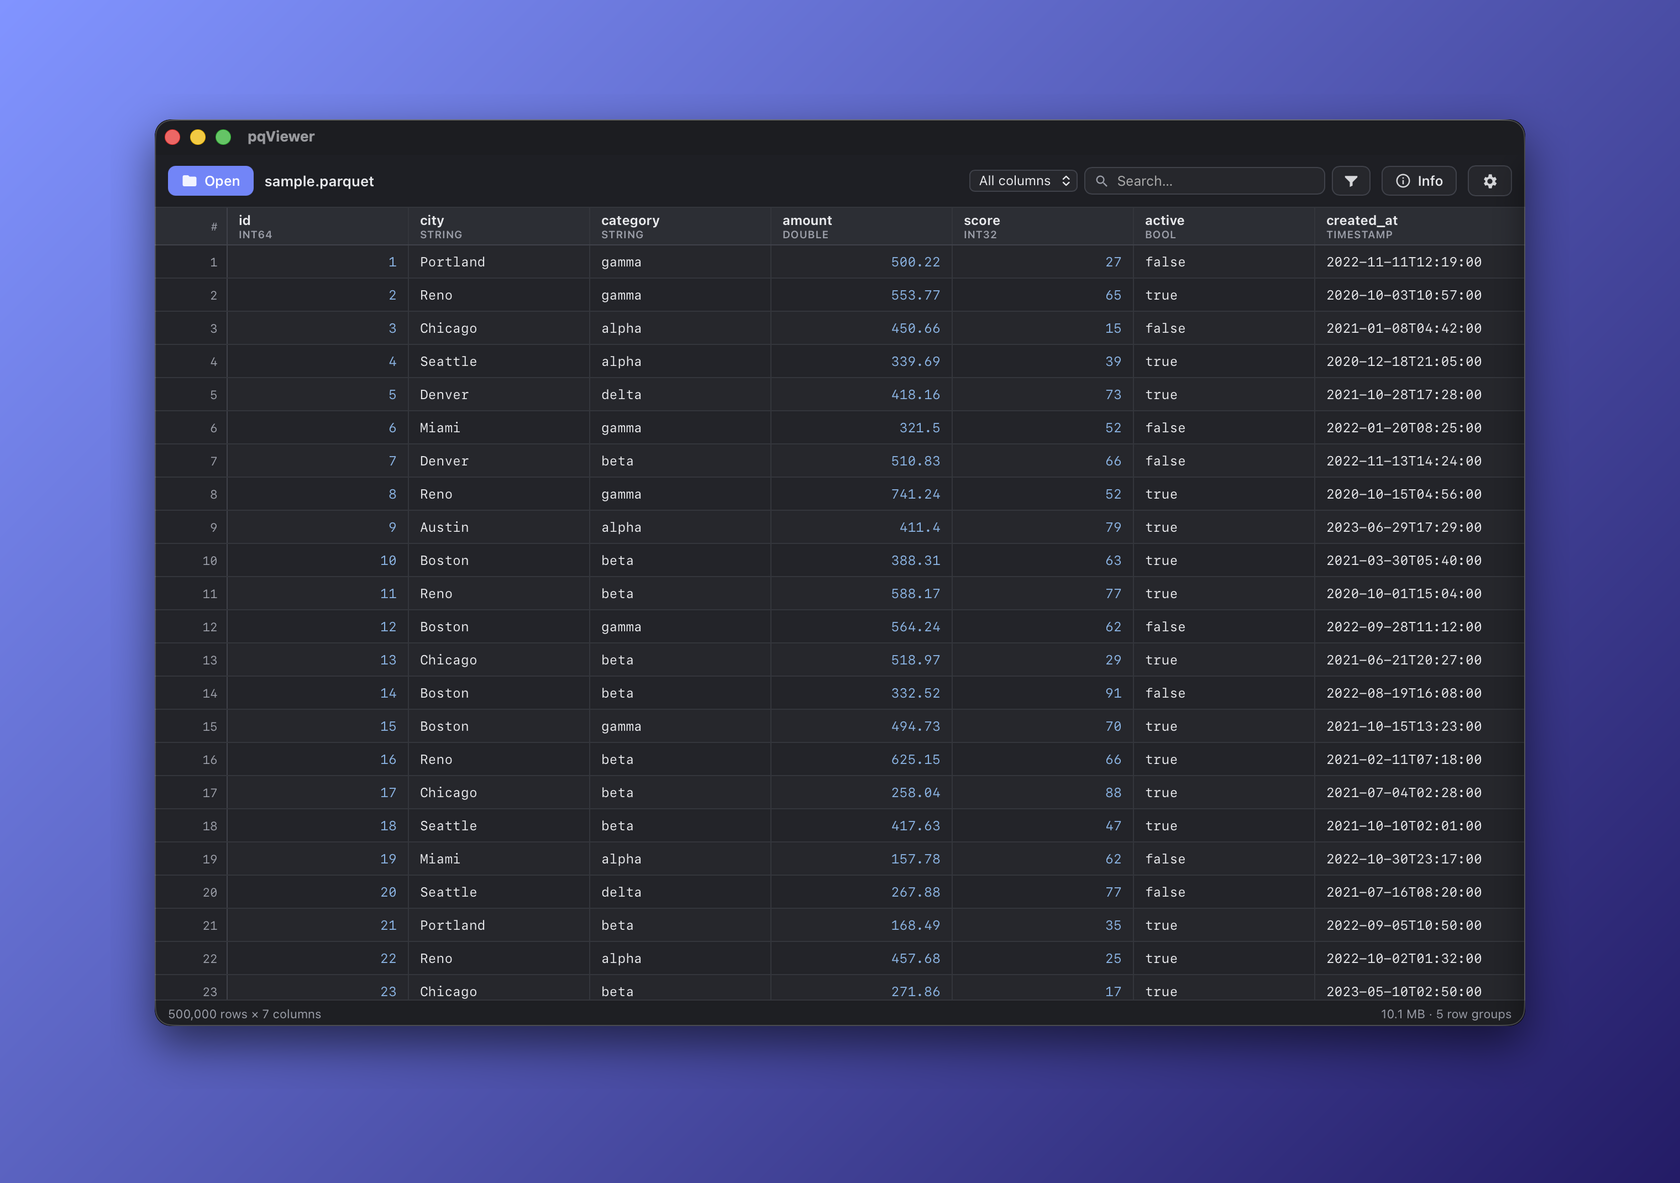
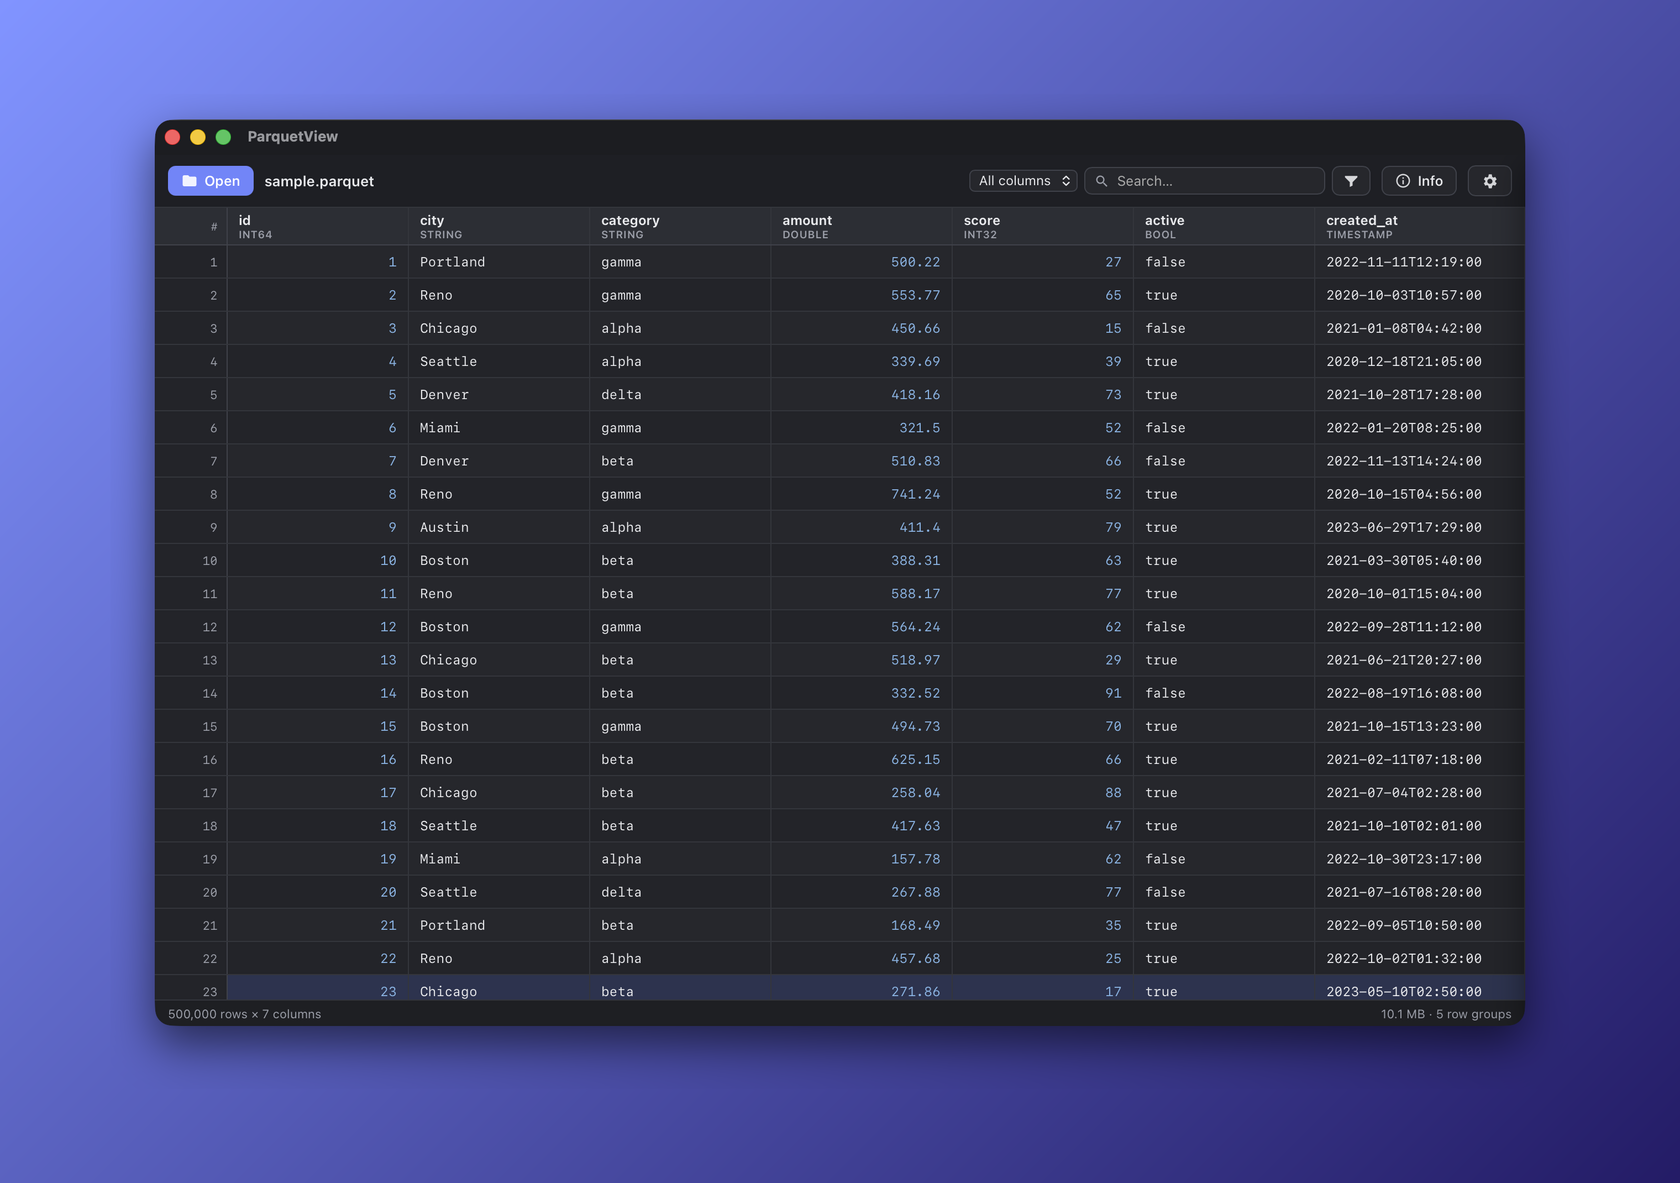
Rebrand pqViewer → ParquetView
Renames the app, crate, bundle identifier (com.fcatus.parquetview), window
title, DMG, README/landing page, and all URLs. 'ParquetView' keeps the
'parquet' keyword for discoverability while staying distinct from the
existing ParquetViewer project. Mockup regenerated with the new title bar.

Changed region(s): [[0.1238, 0.8216, 0.9286, 0.8521], [0.1548, 0.0913, 0.2167, 0.1217]]

diff --git a/docs/index.html b/docs/index.html
@@ -3,11 +3,11 @@
   <head>
     <meta charset="UTF-8" />
     <meta name="viewport" content="width=device-width, initial-scale=1.0" />
-    <title>pqViewer — a fast, native macOS Parquet viewer</title>
+    <title>ParquetView — a fast, native macOS Parquet viewer</title>
     <meta name="description" content="A fast, native macOS viewer for Apache Parquet files. Opens multi-gigabyte files instantly." />
-    <meta property="og:title" content="pqViewer" />
+    <meta property="og:title" content="ParquetView" />
     <meta property="og:description" content="A fast, native macOS viewer for Apache Parquet files." />
-    <meta property="og:image" content="https://alyetama.github.io/pqViewer/mockup.png" />
+    <meta property="og:image" content="https://alyetama.github.io/ParquetView/mockup.png" />
     <meta property="og:type" content="website" />
     <link rel="icon" href="mockup.png" />
     <style>
@@ -130,12 +130,12 @@
   <body>
     <div class="wrap">
       <header>
-        <div class="logo"><span class="glyph"></span>pqViewer</div>
+        <div class="logo"><span class="glyph"></span>ParquetView</div>
         <p class="tagline">A fast, native macOS viewer for Apache&nbsp;Parquet files.</p>
 
         <div class="cta">
           <a class="download" id="downloadBtn"
-             href="https://github.com/Alyetama/pqViewer/releases/latest/download/pqViewer.dmg">
+             href="https://github.com/Alyetama/ParquetView/releases/latest/download/ParquetView.dmg">
             <svg viewBox="0 0 24 24" fill="none" aria-hidden="true">
               <path d="M12 3v12m0 0l-4-4m4 4l4-4" stroke="currentColor" stroke-width="2" stroke-linecap="round" stroke-linejoin="round"/>
               <path d="M4 17v2a2 2 0 002 2h12a2 2 0 002-2v-2" stroke="currentColor" stroke-width="2" stroke-linecap="round"/>
@@ -147,7 +147,7 @@
       </header>
 
       <div class="shot">
-        <img src="mockup.png" alt="pqViewer showing a Parquet file with 500,000 rows" />
+        <img src="mockup.png" alt="ParquetView showing a Parquet file with 500,000 rows" />
       </div>
 
       <section class="card">
@@ -165,19 +165,19 @@
 
       <section class="card" id="open-instructions">
         <h2>How to open the app</h2>
-        <p class="lead">pqViewer isn't signed with an Apple Developer ID, so macOS blocks it the first time. This is expected — open it with <b>one</b> of these:</p>
+        <p class="lead">ParquetView isn't signed with an Apple Developer ID, so macOS blocks it the first time. This is expected — open it with <b>one</b> of these:</p>
         <ol class="steps">
-          <li><b>Right‑click to open.</b> In Finder, <b>right‑click</b> (or Control‑click) <b>pqViewer</b> → <b>Open</b> → <b>Open</b>.</li>
-          <li><b>If that's blocked on newer macOS:</b> open <b>System Settings → Privacy &amp; Security</b>, scroll down, and click <b>Open Anyway</b> next to the pqViewer message.</li>
+          <li><b>Right‑click to open.</b> In Finder, <b>right‑click</b> (or Control‑click) <b>ParquetView</b> → <b>Open</b> → <b>Open</b>.</li>
+          <li><b>If that's blocked on newer macOS:</b> open <b>System Settings → Privacy &amp; Security</b>, scroll down, and click <b>Open Anyway</b> next to the ParquetView message.</li>
           <li>
             <b>Terminal fallback:</b> remove the quarantine flag, then open normally:
-            <pre><code>xattr -dr com.apple.quarantine /Applications/pqViewer.app</code></pre>
+            <pre><code>xattr -dr com.apple.quarantine /Applications/ParquetView.app</code></pre>
           </li>
         </ol>
       </section>
 
       <footer>
-        <a href="https://github.com/Alyetama/pqViewer">View source on GitHub</a> · MIT © 2026 Alyetama
+        <a href="https://github.com/Alyetama/ParquetView">View source on GitHub</a> · MIT © 2026 Alyetama
       </footer>
     </div>
 

diff --git a/src/main.js b/src/main.js
@@ -139,7 +139,7 @@ async function openPath(path) {
     searchInput.value = "";
     searchClear.classList.add("hidden");
     fileNameEl.textContent = meta.file_name;
-    document.title = "pqViewer — " + meta.file_name;
+    document.title = "ParquetView — " + meta.file_name;
 
     // The table is visible now, so viewport.clientWidth is valid for sizing.
     computeColWidths();
@@ -537,7 +537,7 @@ const FONT_PX = { small: 11, default: 12, large: 13 };
 
 function loadSettings() {
   try {
-    const raw = localStorage.getItem("pqviewer.settings");
+    const raw = localStorage.getItem("parquetview.settings");
     if (raw) settings = { ...DEFAULT_SETTINGS, ...JSON.parse(raw) };
   } catch (_) {
     /* ignore corrupt settings */
@@ -545,7 +545,7 @@ function loadSettings() {
 }
 function saveSettings() {
   try {
-    localStorage.setItem("pqviewer.settings", JSON.stringify(settings));
+    localStorage.setItem("parquetview.settings", JSON.stringify(settings));
   } catch (_) {
     /* ignore */
   }

diff --git a/src/index.html b/src/index.html
@@ -3,7 +3,7 @@
   <head>
     <meta charset="UTF-8" />
     <meta name="viewport" content="width=device-width, initial-scale=1.0" />
-    <title>pqViewer</title>
+    <title>ParquetView</title>
     <link rel="stylesheet" href="styles.css" />
   </head>
   <body>

diff --git a/src-tauri/src/main.rs b/src-tauri/src/main.rs
@@ -870,7 +870,7 @@ fn main() {
             Ok(())
         })
         .build(tauri::generate_context!())
-        .expect("error while building pqViewer")
+        .expect("error while building ParquetView")
         .run(|app_handle, event| {
             // macOS delivers "Open With" / dock-drop files through this event.
             if let tauri::RunEvent::Opened { urls } = event {
@@ -889,7 +889,7 @@ fn main() {
 
 // ---------------------------------------------------------------------------
 // Tests — exercise the read engine against a real file.
-// Run with: PQVIEWER_TEST_FILE=/path/to/sample.parquet cargo test
+// Run with: PARQUETVIEW_TEST_FILE=/path/to/sample.parquet cargo test
 // Tests are skipped when the env var is unset.
 // ---------------------------------------------------------------------------
 
@@ -914,7 +914,7 @@ mod tests {
     }
 
     fn sample() -> Option<String> {
-        std::env::var("PQVIEWER_TEST_FILE").ok()
+        std::env::var("PARQUETVIEW_TEST_FILE").ok()
     }
 
     #[test]

diff --git a/README.md b/README.md
@@ -1,24 +1,24 @@
-<h1 align="center">pqViewer</h1>
+<h1 align="center">ParquetView</h1>
 
 <p align="center">A fast, native macOS viewer for Apache Parquet files.</p>
 
 <p align="center">
-  <a href="https://github.com/Alyetama/pqViewer/releases/latest/download/pqViewer.dmg"><b>⬇️ Download for macOS</b></a>
+  <a href="https://github.com/Alyetama/ParquetView/releases/latest/download/ParquetView.dmg"><b>⬇️ Download for macOS</b></a>
   &nbsp;·&nbsp;
-  <a href="https://alyetama.github.io/pqViewer">Website</a>
+  <a href="https://alyetama.github.io/ParquetView">Website</a>
   &nbsp;·&nbsp;
   <a href="#first-launch">First launch</a>
 </p>
 
 <p align="center">
-  <img src="docs/mockup.png" alt="pqViewer showing a Parquet file" width="820">
+  <img src="docs/mockup.png" alt="ParquetView showing a Parquet file" width="820">
 </p>
 
 ## Download
 
-**[⬇️ Download pqViewer for macOS](https://github.com/Alyetama/pqViewer/releases/latest/download/pqViewer.dmg)** (Apple Silicon)
+**[⬇️ Download ParquetView for macOS](https://github.com/Alyetama/ParquetView/releases/latest/download/ParquetView.dmg)** (Apple Silicon)
 
-Open the `.dmg`, drag **pqViewer** to Applications, then follow [First launch](#first-launch) below.
+Open the `.dmg`, drag **ParquetView** to Applications, then follow [First launch](#first-launch) below.
 
 ## Features
 
@@ -32,13 +32,13 @@ Open the `.dmg`, drag **pqViewer** to Applications, then follow [First launch](#
 
 ## First launch
 
-pqViewer isn't signed with an Apple Developer ID, so macOS blocks it the first time. This is expected — open it with **one** of these:
+ParquetView isn't signed with an Apple Developer ID, so macOS blocks it the first time. This is expected — open it with **one** of these:
 
-1. **Right‑click to open.** In Finder, **right‑click** (or Control‑click) **pqViewer** → **Open** → **Open**.
-2. **If that's blocked on newer macOS:** open **System Settings → Privacy & Security**, scroll down, and click **Open Anyway** next to the pqViewer message.
+1. **Right‑click to open.** In Finder, **right‑click** (or Control‑click) **ParquetView** → **Open** → **Open**.
+2. **If that's blocked on newer macOS:** open **System Settings → Privacy & Security**, scroll down, and click **Open Anyway** next to the ParquetView message.
 3. **Terminal fallback:** remove the quarantine flag, then open normally:
    ```bash
-   xattr -dr com.apple.quarantine /Applications/pqViewer.app
+   xattr -dr com.apple.quarantine /Applications/ParquetView.app
    ```
 
 ## Build from source
@@ -47,7 +47,7 @@ Requires Rust, Node 18+, and Xcode command‑line tools.
 
 ```bash
 npm install
-npm run tauri build   # → src-tauri/target/release/bundle/macos/pqViewer.app
+npm run tauri build   # → src-tauri/target/release/bundle/macos/ParquetView.app
 ```
 
 For development with hot reload: `npm run tauri dev`.